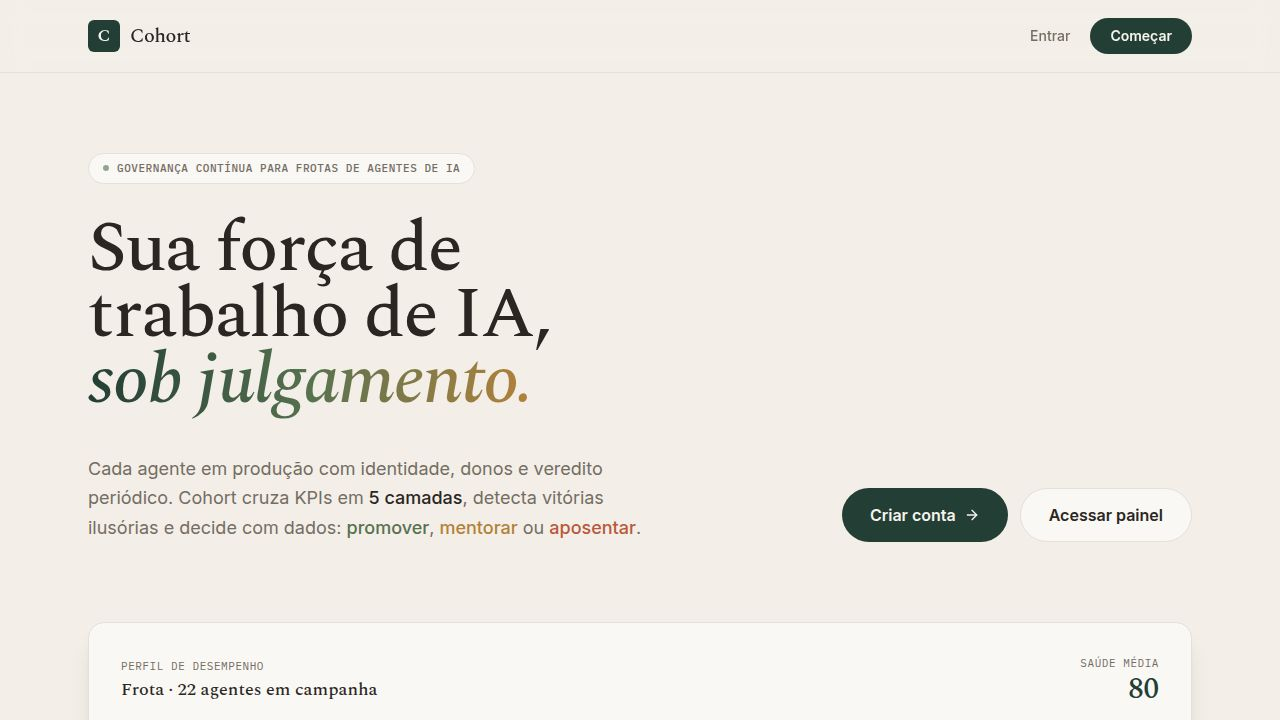
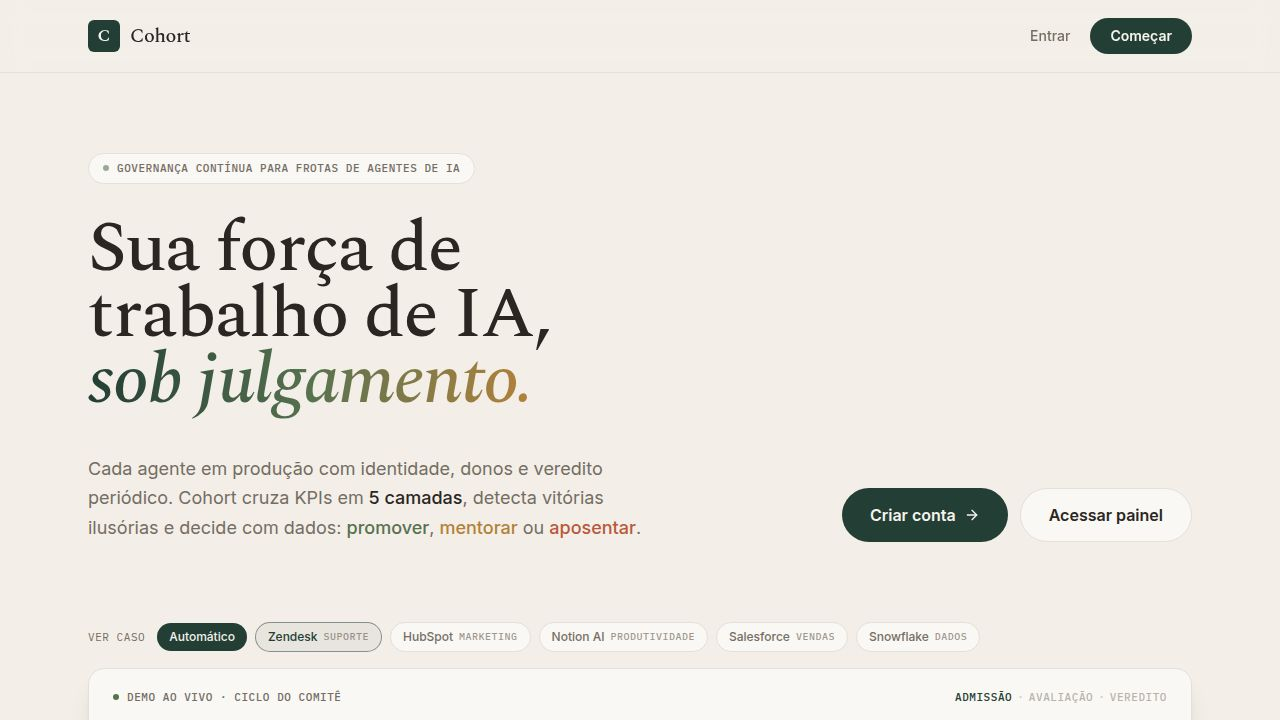
feat(landing): scenario/platform selector for the live demo
Task #5 — Deixe visitantes escolherem o cenário da demo por plataforma.

What changed (artifacts/cohort/src/components/landing-demo.tsx):
- Added a chip selector above the demo card ("Ver caso") with an
  "Automático" chip plus one chip per scenario, labeled by platform +
  function category (Suporte / Marketing / Produtividade / Vendas / Dados).
- Clicking a platform chip pins that scenario and jumps straight to it;
  "Automático" returns to full autoplay across all scenarios.
- Added a `category` field to the Scenario type and to the 3 existing
  scenarios; added 2 new scenarios: Lyra/Salesforce (Vendas, promover) and
  Nova/Snowflake (Dados, mentorar, com vitória ilusória).
- Pinning logic: new `pinned` state + `pinnedRef`; `stepBy(dir)` cycles only
  the pinned scenario's phases when pinned, otherwise the whole cycle.
  Autoplay timer is preserved in both modes; when pinned, it loops within the
  chosen scenario only. prefers-reduced-motion still respected (reuses
  existing `reduce` guards).
- Live label now shows "Cenário fixado · <plataforma>" when pinned.
- Bottom dot controls now also pin (call goToScenario), consistent with chips.

Theme "Trincheira" and PT-BR copy preserved throughout.

Notes / deviations:
- None to task scope. Pre-existing typecheck errors in benchmarks.tsx,
  comando.tsx, governanca.tsx are from other in-progress tasks and unrelated
  to this change; landing-demo.tsx and landing.tsx typecheck clean.
[…]

diff --git a/artifacts/cohort/src/components/landing-demo.tsx b/artifacts/cohort/src/components/landing-demo.tsx
@@ -22,6 +22,7 @@ type VerdictKind = "promote" | "mentor" | "retire";
 
 type Scenario = {
   id: string;
+  category: string;
   agent: { name: string; platform: string; role: string };
   layers: LayerScore[];
   health: number;
@@ -38,6 +39,7 @@ const LAYER_LABELS = ["Eficácia", "Eficiência", "Adoção", "Governança", "Va
 const SCENARIOS: Scenario[] = [
   {
     id: "atlas",
+    category: "Suporte",
     agent: { name: "Atlas", platform: "Zendesk", role: "Triagem de suporte N1" },
     layers: [
       { label: "Eficácia", score: 91 },
@@ -59,6 +61,7 @@ const SCENARIOS: Scenario[] = [
   },
   {
     id: "vega",
+    category: "Marketing",
     agent: { name: "Vega", platform: "HubSpot", role: "Qualificação de leads" },
     layers: [
       { label: "Eficácia", score: 72 },
@@ -81,6 +84,7 @@ const SCENARIOS: Scenario[] = [
   },
   {
     id: "orion",
+    category: "Produtividade",
     agent: { name: "Orion", platform: "Notion AI", role: "Resumo de reuniões" },
     layers: [
       { label: "Eficácia", score: 41 },
@@ -98,6 +102,51 @@ const SCENARIOS: Scenario[] = [
       "Encerrar acesso às integrações",
       "Arquivar Carteira de Trabalho",
       "Migrar tarefas para fluxo nativo",
+    ],
+  },
+  {
+    id: "lyra",
+    category: "Vendas",
+    agent: { name: "Lyra", platform: "Salesforce", role: "Cadência de SDR" },
+    layers: [
+      { label: "Eficácia", score: 85 },
+      { label: "Eficiência", score: 90 },
+      { label: "Adoção", score: 76 },
+      { label: "Governança", score: 81 },
+      { label: "Valor", score: 87 },
+    ],
+    health: 84,
+    illusoryWin: false,
+    verdict: "promote",
+    confidence: 90,
+    window: "Próximo trimestre",
+    actions: [
+      "Expandir para contas enterprise",
+      "Conectar ao forecast de receita",
+      "Aumentar cota de cadências ativas",
+    ],
+  },
+  {
+    id: "nova",
+    category: "Dados",
+    agent: { name: "Nova", platform: "Snowflake", role: "Qualidade de dados" },
+    layers: [
+      { label: "Eficácia", score: 77 },
+      { label: "Eficiência", score: 69 },
+      { label: "Adoção", score: 54 },
+      { label: "Governança", score: 71 },
+      { label: "Valor", score: 61 },
+    ],
+    health: 67,
+    illusoryWin: true,
+    illusoryNote: "Muitos alertas, mas alta taxa de falsos positivos",
+    verdict: "mentor",
+    confidence: 80,
+    window: "Próximas 6 semanas",
+    actions: [
+      "Reduzir falsos positivos de alerta",
+      "Ampliar cobertura de testes de dados",
+      "Treinar squad de dados no fluxo",
     ],
   },
 ];
@@ -147,18 +196,37 @@ export default function LandingDemo() {
   const reduce = useReducedMotion() ?? false;
   const [step, setStep] = useState(0);
   const [paused, setPaused] = useState(false);
+  const [pinned, setPinned] = useState<number | null>(null);
   const timerRef = useRef<ReturnType<typeof setTimeout> | null>(null);
+  const pinnedRef = useRef<number | null>(null);
+
+  useEffect(() => {
+    pinnedRef.current = pinned;
+  }, [pinned]);
 
   const scenarioIndex = Math.floor(step / PHASES.length) % SCENARIOS.length;
   const phase = step % PHASES.length; // 0 admission, 1 evaluation, 2 verdict
   const scenario = SCENARIOS[scenarioIndex];
 
-  const advance = useCallback(() => setStep((s) => (s + 1) % TOTAL_STEPS), []);
-  const goPrev = useCallback(
-    () => setStep((s) => (s - 1 + TOTAL_STEPS) % TOTAL_STEPS),
-    [],
-  );
-  const goToScenario = useCallback((i: number) => setStep(i * PHASES.length), []);
+  // Step within the pinned scenario's phases, or across the whole cycle when unpinned.
+  const stepBy = useCallback((dir: 1 | -1) => {
+    setStep((s) => {
+      const pin = pinnedRef.current;
+      if (pin !== null) {
+        const ph = s % PHASES.length;
+        return pin * PHASES.length + ((ph + dir + PHASES.length) % PHASES.length);
+      }
+      return (s + dir + TOTAL_STEPS) % TOTAL_STEPS;
+    });
+  }, []);
+
+  const advance = useCallback(() => stepBy(1), [stepBy]);
+  const goPrev = useCallback(() => stepBy(-1), [stepBy]);
+  const goToScenario = useCallback((i: number) => {
+    setPinned(i);
+    setStep(i * PHASES.length);
+  }, []);
+  const resumeAuto = useCallback(() => setPinned(null), []);
 
   useEffect(() => {
     if (paused) return;
@@ -184,6 +252,54 @@ export default function LandingDemo() {
         style={{ background: "radial-gradient(60% 60% at 50% 0%, hsl(var(--primary) / 0.2), transparent 70%)" }}
       />
 
+      {/* ── Scenario selector (jump by platform) ── */}
+      <div className="mb-4 flex flex-wrap items-center gap-2">
+        <span className="mr-1 font-mono text-[11px] uppercase tracking-wider text-muted-foreground">
+          Ver caso
+        </span>
+        <button
+          type="button"
+          onClick={resumeAuto}
+          aria-pressed={pinned === null}
+          className={`rounded-full px-3 py-1.5 text-xs font-medium transition-colors ${
+            pinned === null
+              ? "bg-primary text-primary-foreground"
+              : "border border-card-border bg-card text-muted-foreground hover:bg-secondary hover:text-foreground"
+          }`}
+        >
+          Automático
+        </button>
+        {SCENARIOS.map((s, i) => {
+          const isPinned = pinned === i;
+          const isPlaying = pinned === null && scenarioIndex === i;
+          return (
+            <button
+              key={s.id}
+              type="button"
+              onClick={() => goToScenario(i)}
+              aria-pressed={isPinned}
+              title={`${s.agent.name} · ${s.agent.role}`}
+              className={`inline-flex items-center gap-1.5 rounded-full px-3 py-1.5 text-xs font-medium transition-colors ${
+                isPinned
+                  ? "bg-primary text-primary-foreground"
+                  : isPlaying
+                    ? "border border-primary/50 bg-primary/5 text-primary"
+                    : "border border-card-border bg-card text-muted-foreground hover:bg-secondary hover:text-foreground"
+              }`}
+            >
+              {s.agent.platform}
+              <span
+                className={`font-mono text-[10px] uppercase tracking-wider ${
+                  isPinned ? "text-primary-foreground/70" : "text-muted-foreground/70"
+                }`}
+              >
+                {s.category}
+              </span>
+            </button>
+          );
+        })}
+      </div>
+
       <div className="overflow-hidden rounded-2xl border border-card-border bg-card shadow-xl">
         {/* ── Top bar: live + step tracker ── */}
         <div className="flex flex-col gap-3 border-b border-card-border px-6 py-4 sm:flex-row sm:items-center sm:justify-between">
@@ -194,7 +310,9 @@ export default function LandingDemo() {
               )}
               <span className="relative inline-flex h-1.5 w-1.5 rounded-full bg-chart-1" />
             </span>
-            Demo ao vivo · ciclo do comitê
+            {pinned === null
+              ? "Demo ao vivo · ciclo do comitê"
+              : `Cenário fixado · ${scenario.agent.platform}`}
           </div>
 
           <div className="flex items-center gap-1.5">